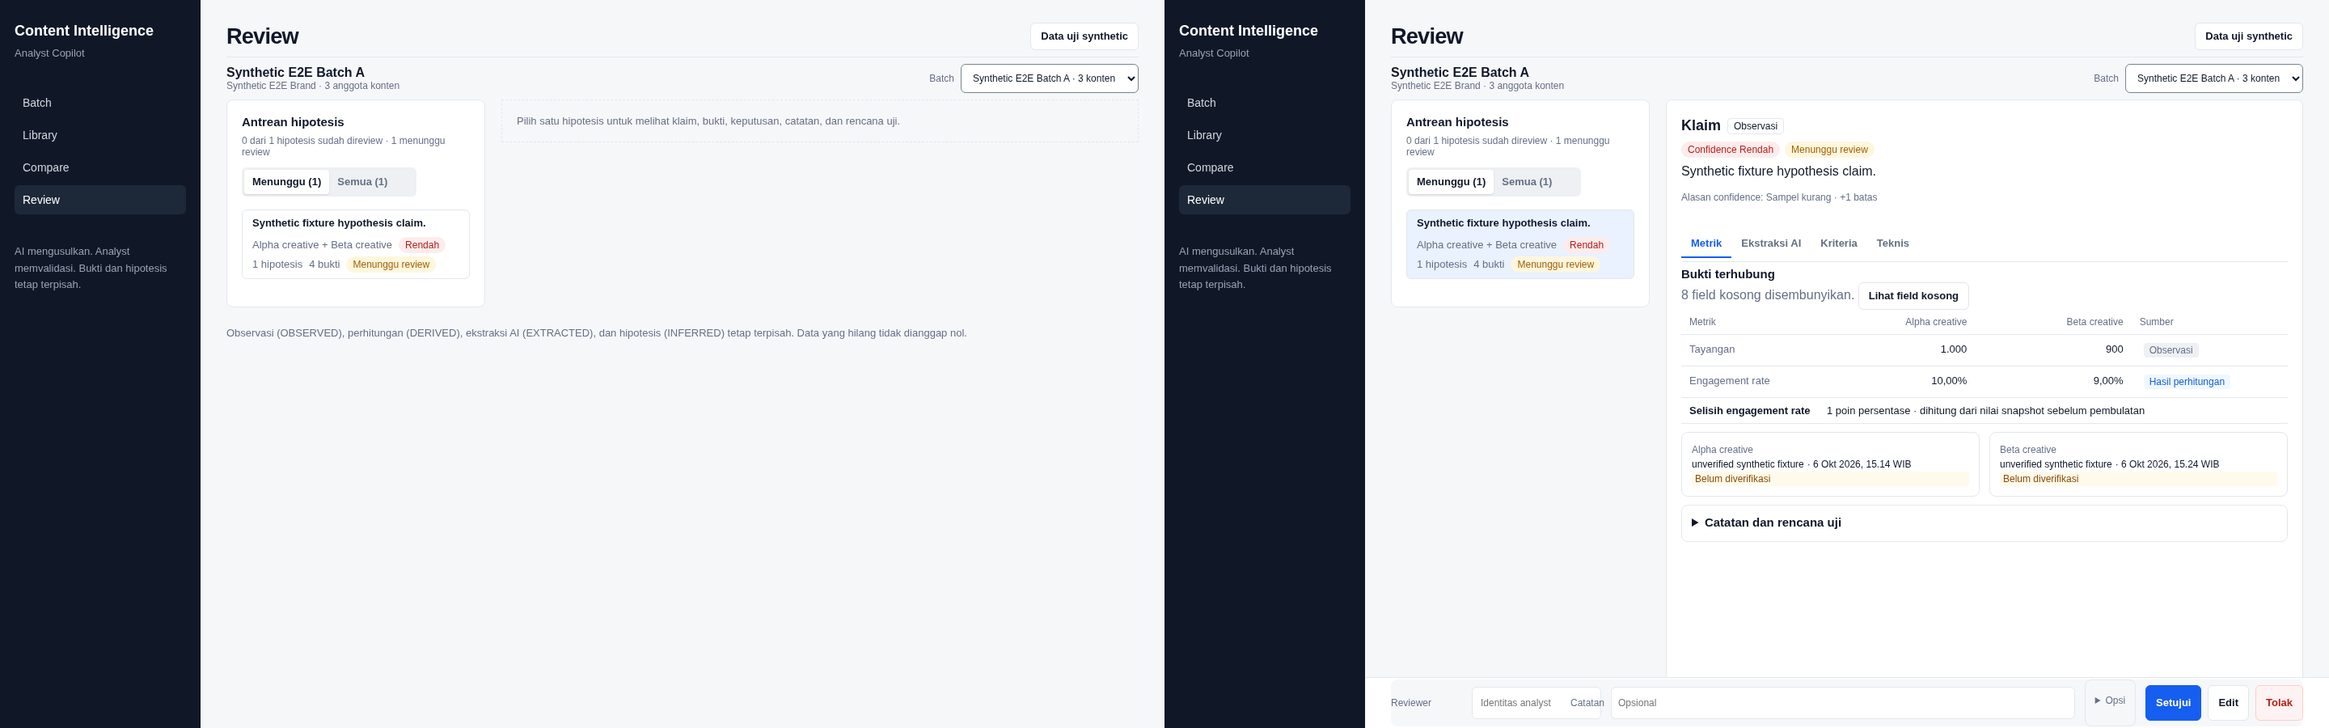
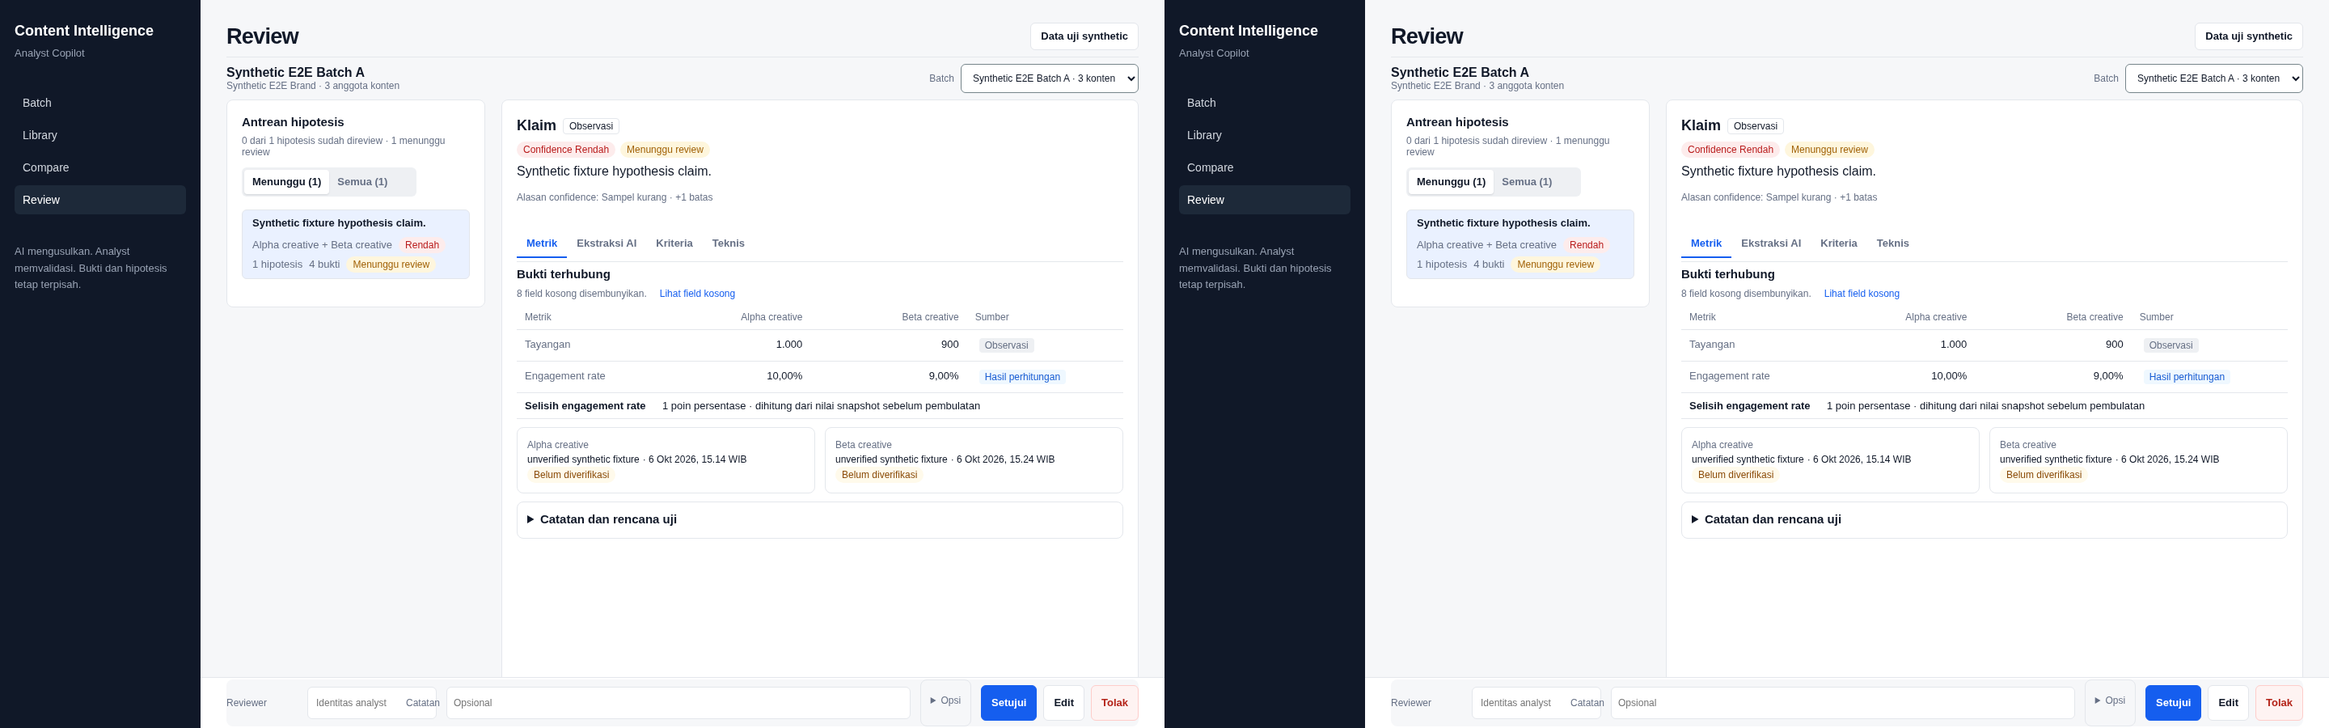
fix(review): restore compact source status pill

diff --git a/tests/e2e/review-layout-mock.spec.ts b/tests/e2e/review-layout-mock.spec.ts
@@ -39,6 +39,16 @@ for (const viewport of [{ width: 1440, height: 900 }, { width: 390, height: 844 
   const queue = page.getByRole('region', { name: 'Antrean hipotesis' });
   await expect(queue.getByText('Synthetic fixture hypothesis claim.')).toBeVisible();
   await page.screenshot({ path: `/tmp/cic-review-MOCK-queue-${viewport.width}x${viewport.height}.png` });
+  const syntheticChip = page.getByRole('button', { name: 'Data uji synthetic', exact: true });
+  await expect(syntheticChip).toBeVisible();
+  if (viewport.width === 390) {
+    const [chipBox, topbarBox, batchTitleBox] = await Promise.all([syntheticChip.boundingBox(), page.locator('.view-review .topbar').boundingBox(), page.locator('#workspace-heading').boundingBox()]);
+    expect(chipBox).not.toBeNull();
+    expect(topbarBox).not.toBeNull();
+    expect(batchTitleBox).not.toBeNull();
+    expect(topbarBox!.y + topbarBox!.height - (chipBox!.y + chipBox!.height)).toBeGreaterThanOrEqual(8);
+    expect(batchTitleBox!.y - (chipBox!.y + chipBox!.height)).toBeGreaterThanOrEqual(8);
+  }
   const queueProgress = queue.locator('.queue-progress');
   expect(await queueProgress.evaluate((element) => { const style = getComputedStyle(element); return { color: style.color, fontSize: Number.parseFloat(style.fontSize) }; })).toEqual({ color: 'rgb(102, 112, 133)', fontSize: 12 });
   if (viewport.width === 390) {
@@ -91,6 +101,13 @@ for (const viewport of [{ width: 1440, height: 900 }, { width: 390, height: 844 
   const metricTable = detail.getByRole('table');
   const metricFontSize = await metricTable.evaluate((table) => getComputedStyle(table).fontSize);
   expect(Number.parseFloat(metricFontSize)).toBeGreaterThanOrEqual(13);
+  const missingMetricsNotice = detail.locator('.missing-metrics-notice');
+  await expect(missingMetricsNotice).toBeVisible();
+  const missingMetricTextStyle = await missingMetricsNotice.locator('span').evaluate((element) => { const style = getComputedStyle(element); return { color: style.color, fontSize: Number.parseFloat(style.fontSize), fontWeight: style.fontWeight }; });
+  expect(missingMetricTextStyle).toEqual({ color: 'rgb(102, 112, 133)', fontSize: 12, fontWeight: '400' });
+  const emptyFieldsButton = missingMetricsNotice.getByRole('button', { name: 'Lihat field kosong' });
+  const emptyFieldsButtonStyle = await emptyFieldsButton.evaluate((element) => { const style = getComputedStyle(element); const box = element.getBoundingClientRect(); return { backgroundColor: style.backgroundColor, borderWidth: style.borderTopWidth, fontSize: Number.parseFloat(style.fontSize), fontWeight: style.fontWeight, height: box.height }; });
+  expect(emptyFieldsButtonStyle).toEqual({ backgroundColor: 'rgba(0, 0, 0, 0)', borderWidth: '0px', fontSize: 12, fontWeight: '500', height: 28 });
   await expect(detail.getByRole('heading', { name: 'Klaim', exact: true })).toBeVisible();
   await expect(detail.getByText('Synthetic fixture hypothesis claim.', { exact: true })).toHaveCount(1);
   const claimHeading = detail.locator('.claim-heading');
@@ -157,6 +174,9 @@ for (const viewport of [{ width: 1440, height: 900 }, { width: 390, height: 844 
   const sourceWarning = sourceCards.first().getByText('Belum diverifikasi', { exact: true });
   const sourceText = sourceCards.first().locator('p > span').first();
   expect(await sourceWarning.evaluate((element) => Math.round(element.getBoundingClientRect().left))).toBe(await sourceText.evaluate((element) => Math.round(element.getBoundingClientRect().left)));
+  const sourceWarningStyle = await sourceWarning.evaluate((element) => { const style = getComputedStyle(element); const box = element.getBoundingClientRect(); const source = element.parentElement!.querySelector<HTMLElement>('.source-details')!.getBoundingClientRect(); const card = element.closest('.snapshot-source-card')!.getBoundingClientRect(); return { display: style.display, borderWidth: style.borderTopWidth, borderRadius: style.borderTopLeftRadius, fontSize: Number.parseFloat(style.fontSize), fontWeight: style.fontWeight, height: box.height, width: box.width, cardWidth: card.width, leftOffset: box.left - source.left }; });
+  expect(sourceWarningStyle).toEqual({ display: 'inline-flex', borderWidth: '0px', borderRadius: '999px', fontSize: 12, fontWeight: '500', height: 20, width: expect.any(Number), cardWidth: expect.any(Number), leftOffset: 0 });
+  expect(sourceWarningStyle.width).toBeLessThan(sourceWarningStyle.cardWidth / 2);
   await expect(detail.getByText('Menunggu review', { exact: true })).toHaveCount(1);
   await expect(detail.getByText('Alasan confidence: Sampel kurang · +1 batas', { exact: true })).toBeVisible();
   const typedLabels = await page.locator('.workspace-context .batch-picker, .decision-region .review-panel > .review-meta > label, .snapshot-source-card h4').evaluateAll((elements) => elements.map((element) => { const style = getComputedStyle(element); return { color: style.color, fontSize: Number.parseFloat(style.fontSize), fontWeight: style.fontWeight }; }));
@@ -240,5 +260,13 @@ for (const viewport of [{ width: 1440, height: 900 }, { width: 390, height: 844 
   const controlHeights = await bar.getByRole('button').evaluateAll((buttons) => buttons.map((button) => button.getBoundingClientRect().height));
   const nav = page.getByRole('navigation', { name: 'Workspace analyst' });
   const navBoxes = await nav.getByRole('link').evaluateAll((links) => links.map((link) => link.getBoundingClientRect()));
-  console.info(`REVIEW_LAYOUT_MEASURE ${JSON.stringify({ viewport, viewportMeasured: { width: await page.evaluate(() => innerWidth), height: await page.evaluate(() => innerHeight) }, queuePointerSelected: await detail.isVisible(), backVisible: await backToQueue.isVisible(), tabsSingleRow: tabBoxes.every((tab) => Math.round(tab.y) === Math.round(tabBoxes[0]!.y)), metricFontPx: Number.parseFloat(metricFontSize), sourceColumn, numericAlignments, queueFilter: viewport.width === 1440 ? await queue.locator('.queue-filters').evaluate((element) => { const style = getComputedStyle(element); return { background: style.backgroundColor, radius: style.borderTopLeftRadius }; }) : null, queueFilterButtons: viewport.width === 1440 ? await queue.locator('.queue-filters button').evaluateAll((buttons) => buttons.map((button) => { const style = getComputedStyle(button); const box = button.getBoundingClientRect(); return { whiteSpace: style.whiteSpace, fontPx: Number.parseFloat(style.fontSize), selected: button.getAttribute('aria-pressed') === 'true', background: style.backgroundColor, shadow: style.boxShadow, top: box.top, left: box.left, right: box.right }; })) : [], metricHeader: viewport.width === 1440 ? await metricTable.locator('thead th').evaluateAll((headers) => headers.map((header) => { const style = getComputedStyle(header); return { align: style.textAlign, borderWidth: style.borderBottomWidth, borderColor: style.borderBottomColor }; })) : [], metricRow: viewport.width === 1440 ? await metricTable.locator('tbody .metric-data-row th').first().evaluate((element) => { const style = getComputedStyle(element); return { fontPx: Number.parseFloat(style.fontSize), fontWeight: style.fontWeight, color: style.color, verticalPadding: [style.paddingTop, style.paddingBottom] }; }) : null, sourceBadge: viewport.width === 1440 ? await metricTable.locator('.snapshot-metric-source .ontology-chip').evaluateAll((badges) => badges.map((badge) => { const style = getComputedStyle(badge); return { background: style.backgroundColor, borderWidth: style.borderTopWidth }; })) : [], sourceCards: await sourceCards.evaluateAll((cards) => cards.map((card) => { const style = getComputedStyle(card); return { borderWidth: style.borderTopWidth, radius: style.borderTopLeftRadius, padding: style.paddingTop }; })), heavyTextCount: heavyText.length, confidenceReasonHeightPx: await confidenceReason.evaluate((element) => element.getBoundingClientRect().height), confidenceReasonFontPx: await confidenceReason.evaluate((element) => Number.parseFloat(getComputedStyle(element).fontSize)), decisionHeightPx: height, controlHeights, stickyWithinViewport: Math.round(stickyBox!.y + stickyBox!.height) <= viewport.height, pageOverflow: await page.evaluate(() => document.documentElement.scrollWidth > innerWidth), navSingleRow: navBoxes.every((navBox) => Math.round(navBox.y) === Math.round(navBoxes[0]!.y)), navHeightPx: await nav.evaluate((element) => element.getBoundingClientRect().height) })}`);
+  const navTitleGapPx = viewport.width === 390 ? await page.getByRole('heading', { name: 'Review', exact: true }).evaluate((element) => { const nav = document.querySelector<HTMLElement>('.app-sidebar nav')!; return element.getBoundingClientRect().top - nav.getBoundingClientRect().bottom; }) : null;
+  const syntheticChipClearancePx = viewport.width === 390 ? await syntheticChip.evaluate((element) => { const chip = element.getBoundingClientRect(); const topbar = element.closest<HTMLElement>('.topbar')!.getBoundingClientRect(); const batchTitle = document.querySelector<HTMLElement>('#workspace-heading')!.getBoundingClientRect(); return { divider: topbar.bottom - chip.bottom, batchTitle: batchTitle.top - chip.bottom }; }) : null;
+  const emptyFieldsControl = await emptyFieldsButton.evaluate((element) => { const style = getComputedStyle(element); const box = element.getBoundingClientRect(); return { textFontPx: Number.parseFloat(getComputedStyle(element.parentElement!.querySelector('span')!).fontSize), textFontWeight: getComputedStyle(element.parentElement!.querySelector('span')!).fontWeight, buttonHeightPx: box.height, buttonFontPx: Number.parseFloat(style.fontSize) }; });
+  const sourceWarningMeasure = await sourceWarning.evaluate((element) => { const badge = element.getBoundingClientRect(); const source = element.parentElement!.querySelector<HTMLElement>('.source-details')!.getBoundingClientRect(); const card = element.closest('.snapshot-source-card')!.getBoundingClientRect(); return { widthPx: badge.width, cardWidthPx: card.width, leftOffsetPx: badge.left - source.left, heightPx: badge.height }; });
+  const notesDisclosureHeightPx = await detail.locator('.s10-disclosure').evaluate((element) => element.getBoundingClientRect().height);
+  const decisionOptionTotalHeightPx = viewport.width === 390 ? await bar.getByText('Opsi', { exact: true }).evaluate((element) => { const option = element.getBoundingClientRect(); const region = element.closest<HTMLElement>('.decision-region')!.getBoundingClientRect(); return Math.max(option.bottom, region.bottom) - Math.min(option.top, region.top); }) : null;
+  const decisionControlBorders = await Promise.all([reviewerInput, noteInput].map((input) => input.evaluate((element) => getComputedStyle(element).borderColor)));
+  const desktopMetricDuplicateCount = viewport.width === 1440 ? await metricTable.locator('.snapshot-mobile-values').evaluateAll((elements) => elements.filter((element) => getComputedStyle(element).display !== 'none').length) : null;
+  console.info(`REVIEW_LAYOUT_MEASURE ${JSON.stringify({ viewport, viewportMeasured: { width: await page.evaluate(() => innerWidth), height: await page.evaluate(() => innerHeight) }, queuePointerSelected: await detail.isVisible(), backVisible: await backToQueue.isVisible(), tabsSingleRow: tabBoxes.every((tab) => Math.round(tab.y) === Math.round(tabBoxes[0]!.y)), metricFontPx: Number.parseFloat(metricFontSize), sourceColumn, numericAlignments, queueFilter: viewport.width === 1440 ? await queue.locator('.queue-filters').evaluate((element) => { const style = getComputedStyle(element); return { background: style.backgroundColor, radius: style.borderTopLeftRadius }; }) : null, queueFilterButtons: viewport.width === 1440 ? await queue.locator('.queue-filters button').evaluateAll((buttons) => buttons.map((button) => { const style = getComputedStyle(button); const box = button.getBoundingClientRect(); return { whiteSpace: style.whiteSpace, fontPx: Number.parseFloat(style.fontSize), selected: button.getAttribute('aria-pressed') === 'true', background: style.backgroundColor, shadow: style.boxShadow, top: box.top, left: box.left, right: box.right }; })) : [], metricHeader: viewport.width === 1440 ? await metricTable.locator('thead th').evaluateAll((headers) => headers.map((header) => { const style = getComputedStyle(header); return { align: style.textAlign, borderWidth: style.borderBottomWidth, borderColor: style.borderBottomColor }; })) : [], metricRow: viewport.width === 1440 ? await metricTable.locator('tbody .metric-data-row th').first().evaluate((element) => { const style = getComputedStyle(element); return { fontPx: Number.parseFloat(style.fontSize), fontWeight: style.fontWeight, color: style.color, verticalPadding: [style.paddingTop, style.paddingBottom] }; }) : null, sourceBadge: viewport.width === 1440 ? await metricTable.locator('.snapshot-metric-source .ontology-chip').evaluateAll((badges) => badges.map((badge) => { const style = getComputedStyle(badge); return { background: style.backgroundColor, borderWidth: style.borderTopWidth }; })) : [], sourceCards: await sourceCards.evaluateAll((cards) => cards.map((card) => { const style = getComputedStyle(card); return { borderWidth: style.borderTopWidth, radius: style.borderTopLeftRadius, padding: style.paddingTop }; })), heavyTextCount: heavyText.length, confidenceReasonHeightPx: await confidenceReason.evaluate((element) => element.getBoundingClientRect().height), confidenceReasonFontPx: await confidenceReason.evaluate((element) => Number.parseFloat(getComputedStyle(element).fontSize)), decisionHeightPx: height, decisionOptionTotalHeightPx, decisionControlBorders, controlHeights, stickyWithinViewport: Math.round(stickyBox!.y + stickyBox!.height) <= viewport.height, pageOverflow: await page.evaluate(() => document.documentElement.scrollWidth > innerWidth), navSingleRow: navBoxes.every((navBox) => Math.round(navBox.y) === Math.round(navBoxes[0]!.y)), navHeightPx: await nav.evaluate((element) => element.getBoundingClientRect().height), navTitleGapPx, syntheticChipClearancePx, emptyFieldsControl, sourceWarningMeasure, notesDisclosureHeightPx, desktopMetricDuplicateCount })}`);
 });

diff --git a/app/globals.css b/app/globals.css
@@ -543,8 +543,8 @@ button.primary { border-color: var(--accent); background: var(--accent); color: 
 }
 @media (max-width: 850px) {
   .app-shell { grid-template-rows: auto 1fr; align-content: start; }
-  .view-review .topbar { padding-bottom: 0; }
-  .view-review .workspace-context { padding-top: 0; }
+  .view-review .topbar { padding-bottom: 8px; }
+  .view-review .workspace-context { padding-top: 8px; }
   .view-review .workspace-context h2 { font-size: 1rem; }
   .view-review .workspace-context .muted { font-size: 12px; }
   .view-review .workspace-context .batch-picker select { min-height: 36px; }
@@ -562,10 +562,11 @@ button.primary { border-color: var(--accent); background: var(--accent); color: 
   .view-review .decision-region .decision-options[open] { padding: 8px; border: 1px solid var(--line); border-radius: 6px; }
   .view-review .decision-region .decision-options[open] > summary { margin: -8px -8px 8px; }
   .view-review .hypothesis-detail { padding-top: 0; }
-  .view-review .missing-metrics-notice { display: flex; flex-wrap: wrap; align-items: center; gap: 4px 8px; color: var(--muted); font-size: 12px; font-weight: 400; }
-  .view-review .missing-metrics-notice button { min-height: 28px; height: 28px; padding: 4px 8px; font-size: 12px; font-weight: 500; line-height: 18px; }
 }
-.view-review .snapshot-source-card .source-warning { flex-basis: 100%; width: fit-content; margin-left: 0; }
+.view-review .missing-metrics-notice { display: flex; flex-wrap: wrap; align-items: center; gap: 4px 8px; color: var(--muted); font-size: 12px; font-weight: 400; }
+.view-review .missing-metrics-notice button { min-height: 28px; height: 28px; padding: 4px 8px; border: 0; background: transparent; color: var(--accent); font-size: 12px; font-weight: 500; line-height: 18px; }
+.view-review .snapshot-source-card p, .view-review .snapshot-source-card .source-details { display: block; }
+.view-review .snapshot-source-card .source-warning { display: inline-flex; box-sizing: border-box; width: fit-content; height: 20px; margin-left: 0; padding: 2px 8px; border: 0; border-radius: 999px; font-size: 12px; font-weight: 500; line-height: 16px; }
 .view-review .s10-disclosure { padding: 0; }
 .view-review .decision-region .review-panel > .review-meta input, .view-review .decision-region .decision-note input { border-color: var(--line); }
 .view-review .s10-disclosure > summary { min-height: 44px; padding: 12px; }

diff --git a/app/hypothesis-queue.tsx b/app/hypothesis-queue.tsx
@@ -147,7 +147,7 @@ function HypothesisDetail({ batchId, hypothesisId, contents, onReviewed, onBack 
             const label = contentNames.get(group.contentId);
             const links = [observed, derived].filter((item) => item?.link);
             if (!source && !capturedAt && links.length === 0) return null;
-            return <article className="snapshot-source-card" key={group.snapshotId}>{label && <h4>{label}</h4>}<p>{source && <span>{source}</span>}{capturedAt && <time className="source-time" dateTime={capturedAt}>· {formatDateTimeId(capturedAt)}</time>} {source && /(?:demo|unverified|asumsi|belum diverifikasi)/i.test(source) && <strong className="source-warning">Belum diverifikasi</strong>}</p>{links.map((item) => <a className="source-link" href={item!.link!} key={item!.id}>Buka {labelId(item!.layer)} exact</a>)}</article>;
+            return <article className="snapshot-source-card" key={group.snapshotId}>{label && <h4>{label}</h4>}<p><span className="source-details">{source && <span>{source}</span>}{capturedAt && <time className="source-time" dateTime={capturedAt}>· {formatDateTimeId(capturedAt)}</time>}</span>{source && /(?:demo|unverified|asumsi|belum diverifikasi)/i.test(source) && <strong className="source-warning">Belum diverifikasi</strong>}</p>{links.map((item) => <a className="source-link" href={item!.link!} key={item!.id}>Buka {labelId(item!.layer)} exact</a>)}</article>;
           })}</section>
         </>}
       </section>

diff --git a/docs/tracking/evidence/REVIEW_POLISH_2_MEASUREMENTS_2026-10-22.md b/docs/tracking/evidence/REVIEW_POLISH_2_MEASUREMENTS_2026-10-22.md
@@ -5,23 +5,29 @@ Scope: build produksi lokal, API di-route-mock dengan fixture synthetic. Bukti t
 | Kriteria | Target 1440×900 | Terukur 1440×900 | Target 390×844 | Terukur 390×844 | Hasil |
 |---|---:|---:|---:|---:|---|
 | Viewport | 1440×900 | 1440×900 | 390×844 | 390×844 | PASS |
-| Header mobile | N/A | N/A | kontainer gelap ≤52 px, judul mulai ≤24 px setelah nav | sidebar 52 px, nav 44 px, judul mulai 12 px setelah nav | PASS |
+| Header mobile | N/A | N/A | kontainer gelap ≤52 px; nav→judul Review ≤24 px | sidebar 52 px; nav 44 px; nav→judul 21,67 px | PASS |
+| Chip synthetic mobile | N/A | N/A | bawah chip ke garis dan judul batch ≥8 px | garis 9 px; judul batch 17 px | PASS |
 | Judul klaim | 18 px / 600, warna utama; layer terpisah; gap 8 px | 18 px / 600, `rgb(16,24,40)`; layer terpisah; 8 px | 16 px / 600 | 16 px / 600 | PASS |
 | Badge confidence/status | 20 px, 12 px / 500, radius 999 px, tanpa border; merah / kuning terisi | `#fdecec` / `#b91c1c`; `#fef6dd` / `#a16207`; 20 px, border 0 | Sama | Sama | PASS |
 | Ringkasan antrean | 12 px muted | 12 px `rgb(102,112,133)` | Sama | Sama | PASS |
 | Label/form/header tabel | 12 px / 500 muted; placeholder 400 | 12 px / 500 muted; placeholder 400 | Sama | Sama | PASS |
 | Judul panel | 15 px / 600 | Bukti terhubung dan Catatan dan rencana uji: 15 px / 600 | Sama | Sama | PASS |
-| Metrik mobile | Nilai tidak memulai baris dengan `·`; dua baris berlabel | N/A | `Alpha creative:` dan `Beta creative:` pada baris terpisah; tanpa `·` awal | PASS |
-| Keputusan mobile | N/A | sticky ≤64 px | Reviewer dan Catatan 40 px satu baris; aksi 44 px, proporsi 1.4:1:1; disclosure ≤48 px | 40 px; 44 px; 1.4:1:1; 44 px; tanpa overflow | PASS |
-| Waktu sumber | spasi sebelum `·` | 4 px sebelum pemisah waktu | 4 px | PASS |
-| Indikator Next.js | Tidak terlihat | Tidak terlihat | Tidak terlihat | PASS |
+| Metrik mobile | N/A | N/A | Nilai tidak memulai baris dengan `·`; dua baris berlabel | `Alpha creative:` dan `Beta creative:` pada baris terpisah; tanpa `·` awal | PASS |
+| Keputusan mobile | sticky ≤64 px | 63 px | bar total termasuk Opsi ≤132 px; Reviewer/Catatan 40 px; aksi 44 px | 129 px; 40 px; 44 px, proporsi 1.4:1:1 | PASS |
+| Border Catatan vs Reviewer | warna sama | `rgb(228,231,236)` / `rgb(228,231,236)` | warna sama | `rgb(228,231,236)` / `rgb(228,231,236)` | PASS |
+| Metrik desktop tanpa duplikasi | `snapshot-mobile-values` terlihat 0; badge sumber hanya kolom Sumber | 0; kolom Sumber terlihat; nilai rata kanan | N/A | N/A | PASS |
+| Field kosong | teks 12 px / 400 muted; ghost 12 px / 500, tinggi ≤28 px | `rgb(102,112,133)` 12 px / 400; tombol 12 px / 500, 28 px | Sama | Sama | PASS |
+| Badge sumber `Belum diverifikasi` | inline-flex, 20 px, radius 999, border 0; lebar <50% kartu; offset 0 px | 109,375 / 369 px = 29,64%; offset 0 px | Sama | 109,375 / 336 px = 32,55%; offset 0 px | PASS |
+| Panel Catatan tertutup | tinggi ≤48 px | 46 px | tinggi ≤48 px | 46 px | PASS |
+| Waktu sumber | spasi sebelum `·` | 4 px sebelum pemisah waktu | 4 px | 4 px | PASS |
+| Indikator Next.js | Tidak terlihat | Tidak terlihat | Tidak terlihat | Tidak terlihat | PASS |
 
-Probe: `CIC_E2E_STAGING_URL=http://127.0.0.1:3201 npx playwright test tests/e2e/review-layout-mock.spec.ts --reporter=list` — 2/2 PASS. Probe memakai pointer nyata untuk memilih antrean, computed style, bounding box, dan screenshot dari build produksi.
+Probe: `CIC_E2E_STAGING_URL=http://127.0.0.1:3201 mise exec node@22.18.0 -- npx playwright test tests/e2e/review-layout-mock.spec.ts --reporter=json` — 2/2 PASS. Probe memakai pointer nyata untuk memilih antrean, computed style, bounding box, dan screenshot dari build produksi.
 
 ## Gambar berdampingan
 
-- Desktop: `docs/tracking/evidence/REVIEW_POLISH_2_DETAIL_1440x900.png` (2880×900).
-- Mobile: `docs/tracking/evidence/REVIEW_POLISH_2_DETAIL_390x844.png` (780×844).
+- Desktop: `docs/tracking/evidence/REVIEW_POLISH_2_DETAIL_1440x900.png` (2880×900, dua viewport 1440×900 berdampingan).
+- Mobile: `docs/tracking/evidence/REVIEW_POLISH_2_DETAIL_390x844.png` (780×844, dua viewport 390×844 berdampingan).
 
 ## Selisih tersisa
 

diff --git a/CHANGELOG.md b/CHANGELOG.md
@@ -35,6 +35,7 @@ dan proyek ini mengikuti [Semantic Versioning](https://semver.org/spec/v2.0.0.ht
 - Polish Review menyelaraskan filter antrean, status detail, tabel metrik, kartu sumber/waktu, alasan confidence berbahasa Indonesia, dan input Reviewer; seluruhnya diuji pada 1440×900 dan 390×844.
 - Polish Review 2 menetapkan judul klaim responsif, badge status tanpa border, ringkasan antrean, label/form/header tabel seragam, nilai metrik mobile berlabel per baris, dan header mobile ≤52 px; diuji pada build produksi 1440×900 dan 390×844.
 - Polish Review final memadatkan header mobile, menyetarakan input Reviewer/Catatan, menjaga tindakan sticky 44 px tiga kolom, dan menjaga disclosure ringkas tanpa overflow; diuji pada build produksi 1440×900 dan 390×844.
+- Polish Review final mengembalikan badge sumber sebagai pill 20 px tanpa border, memberi clearance mobile untuk chip synthetic, dan menyetarakan kontrol field kosong ghost 28 px pada desktop/mobile; diuji pada build produksi 1440×900 dan 390×844.
 - Notes dan draft review terikat hipotesis saat navigasi biasa; evidence mempertahankan exact source anchors dan artefak historis.
 - `.gitignore` — ignore `*.tsbuildinfo`, `_bmad/`, `_bmad-output/`
 
